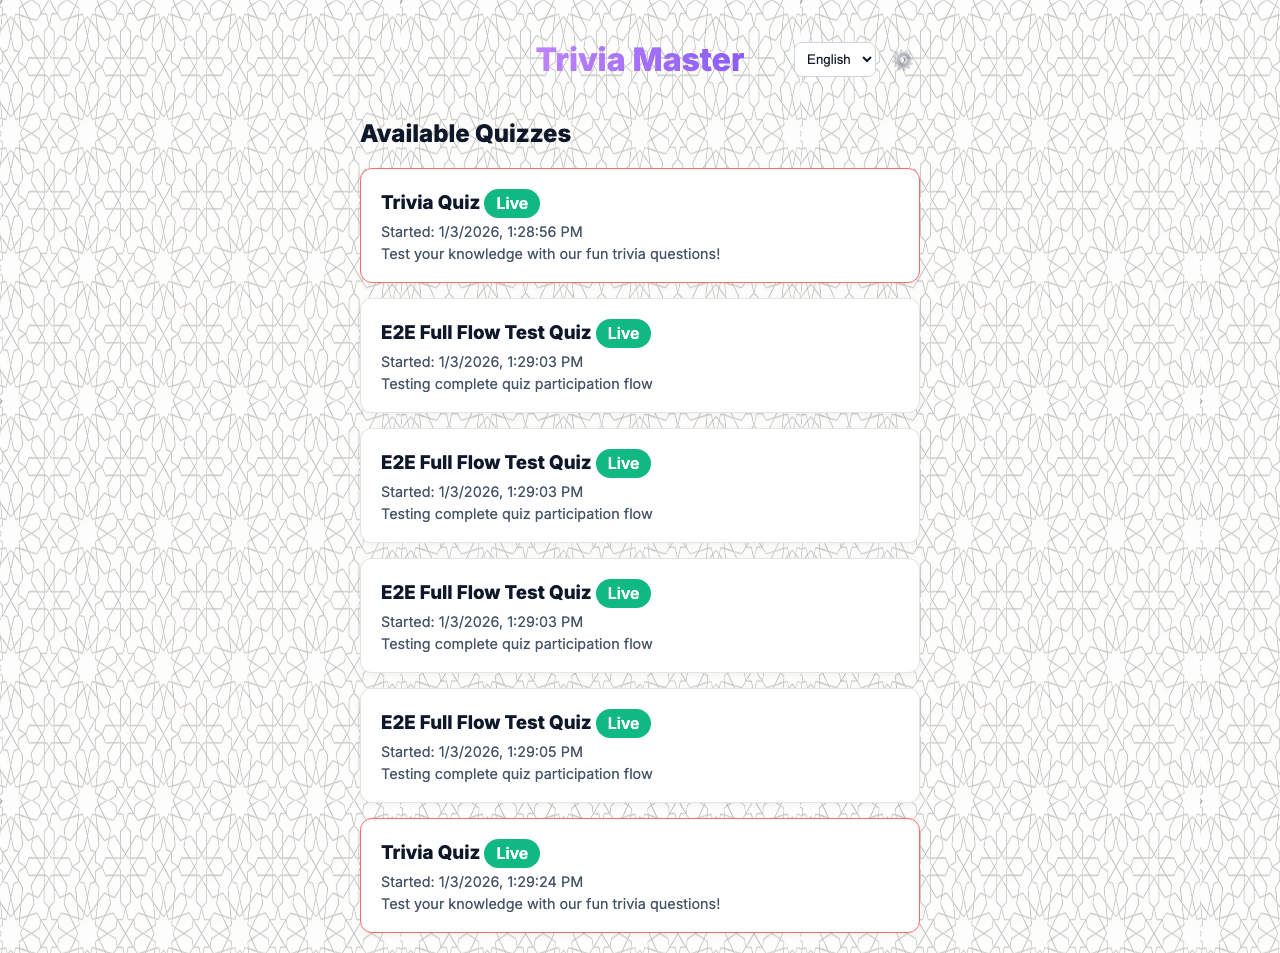
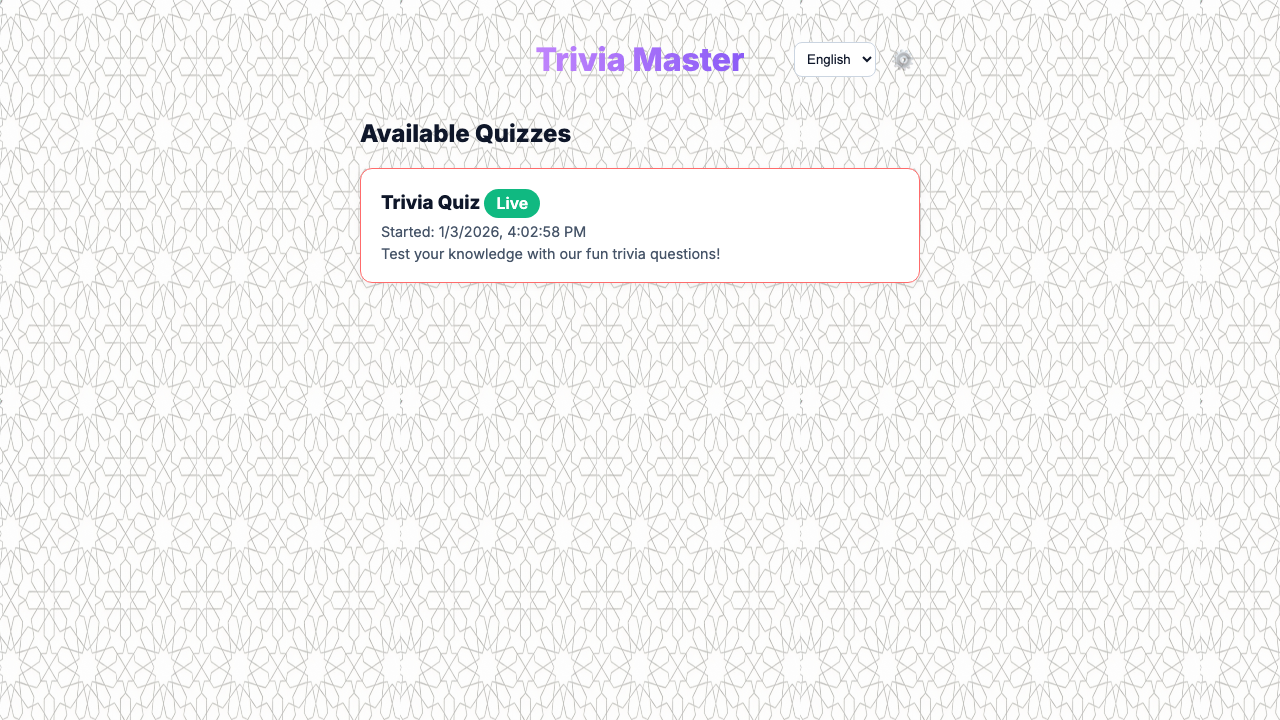
bugfix: use a different db for tests
AI-Assisted: false
AI-Model: NA

Changed region(s): [[0.0, 0.0, 1.0, 1.0]]

diff --git a/tests/e2e/test-server.js b/tests/e2e/test-server.js
@@ -4,30 +4,15 @@
 import fs from 'fs';
 import { initDb, default as db } from '../../src/database.js';
 
-// Set environment for test database
-process.env.NODE_ENV = 'test';
-process.env.TEST_DB_PATH = 'quiz.test.db';
+// environments should be set from playwrite
+// NODE_ENV=test
+// TEST_DB_PATH='quiz.test.db'
 
-const dbPath = 'quiz.test.db';
+
+const dbPath = process.env.TEST_DB_PATH || 'quiz.test.db';
 
 async function seedTestDatabase() {
   try {
-    // Check if database exists and has data
-    const dbExists = fs.existsSync(dbPath);
-
-    if (!dbExists) {
-      console.log('🗑  Creating fresh test database');
-    } else {
-      // Check if it has the seeded quiz
-      const quizCount = db.prepare('SELECT COUNT(*) as count FROM quizzes WHERE title = ?').get('Trivia Quiz');
-      if (quizCount.count > 0) {
-        console.log('✅ Test database already seeded with sample quiz');
-        return;
-      } else {
-        console.log('🗑  Database exists but empty, cleaning...');
-        fs.unlinkSync(dbPath);
-      }
-    }
 
     // Initialize schema using existing initDb function
     initDb();

diff --git a/playwright.config.js b/playwright.config.js
@@ -18,7 +18,7 @@ export default defineConfig({
   },
   globalTeardown: './tests/e2e/global-teardown.js',
   webServer: {
-    command: 'ADMIN_PASSWORD=test-admin-password PORT=3001 node tests/e2e/test-server.js',
+    command: 'ADMIN_PASSWORD=test-admin-password TEST_DB_PATH=quiz.test.db NODE_ENV=test PORT=3001 node tests/e2e/test-server.js',
     port: 3001,
     timeout: 120000
   }

diff --git a/src/database.js b/src/database.js
@@ -8,7 +8,7 @@ const dbOptions = process.env.DEBUG ? { verbose: console.log } : {};
 const db = new Database(dbPath, dbOptions);
 
 if (process.env.DEBUG) {
-  console.log('🔍 Database verbose logging enabled');
+  console.log('🔍 Database verbose logging enabled - using database',dbPath);
 }
 
 

diff --git a/README.md b/README.md
@@ -9,12 +9,12 @@ A modern, real-time trivia quiz application built with Node.js, Express, and Van
 
 <table>
   <tr>
-    <td><img src="screenshots/home.png" alt="Homepage" width="400"/></td>
+    <td><img src="screenshots/homepage.png" alt="Homepage" width="400"/></td>
     <td><img src="screenshots/quiz-list.png" alt="Quiz List" width="400"/></td>
   </tr>
   <tr>
-    <td><img src="screenshots/question.png" alt="Question View" width="400"/></td>
-    <td><img src="screenshots/mobile.png" alt="Mobile View" width="400"/></td>
+    <td><img src="screenshots/mobile-question.png" alt="Question View" width="400"/></td>
+    <td><img src="screenshots/mobile-homepage.png" alt="Mobile Home" width="400"/></td>
   </tr>
 </table>
 
